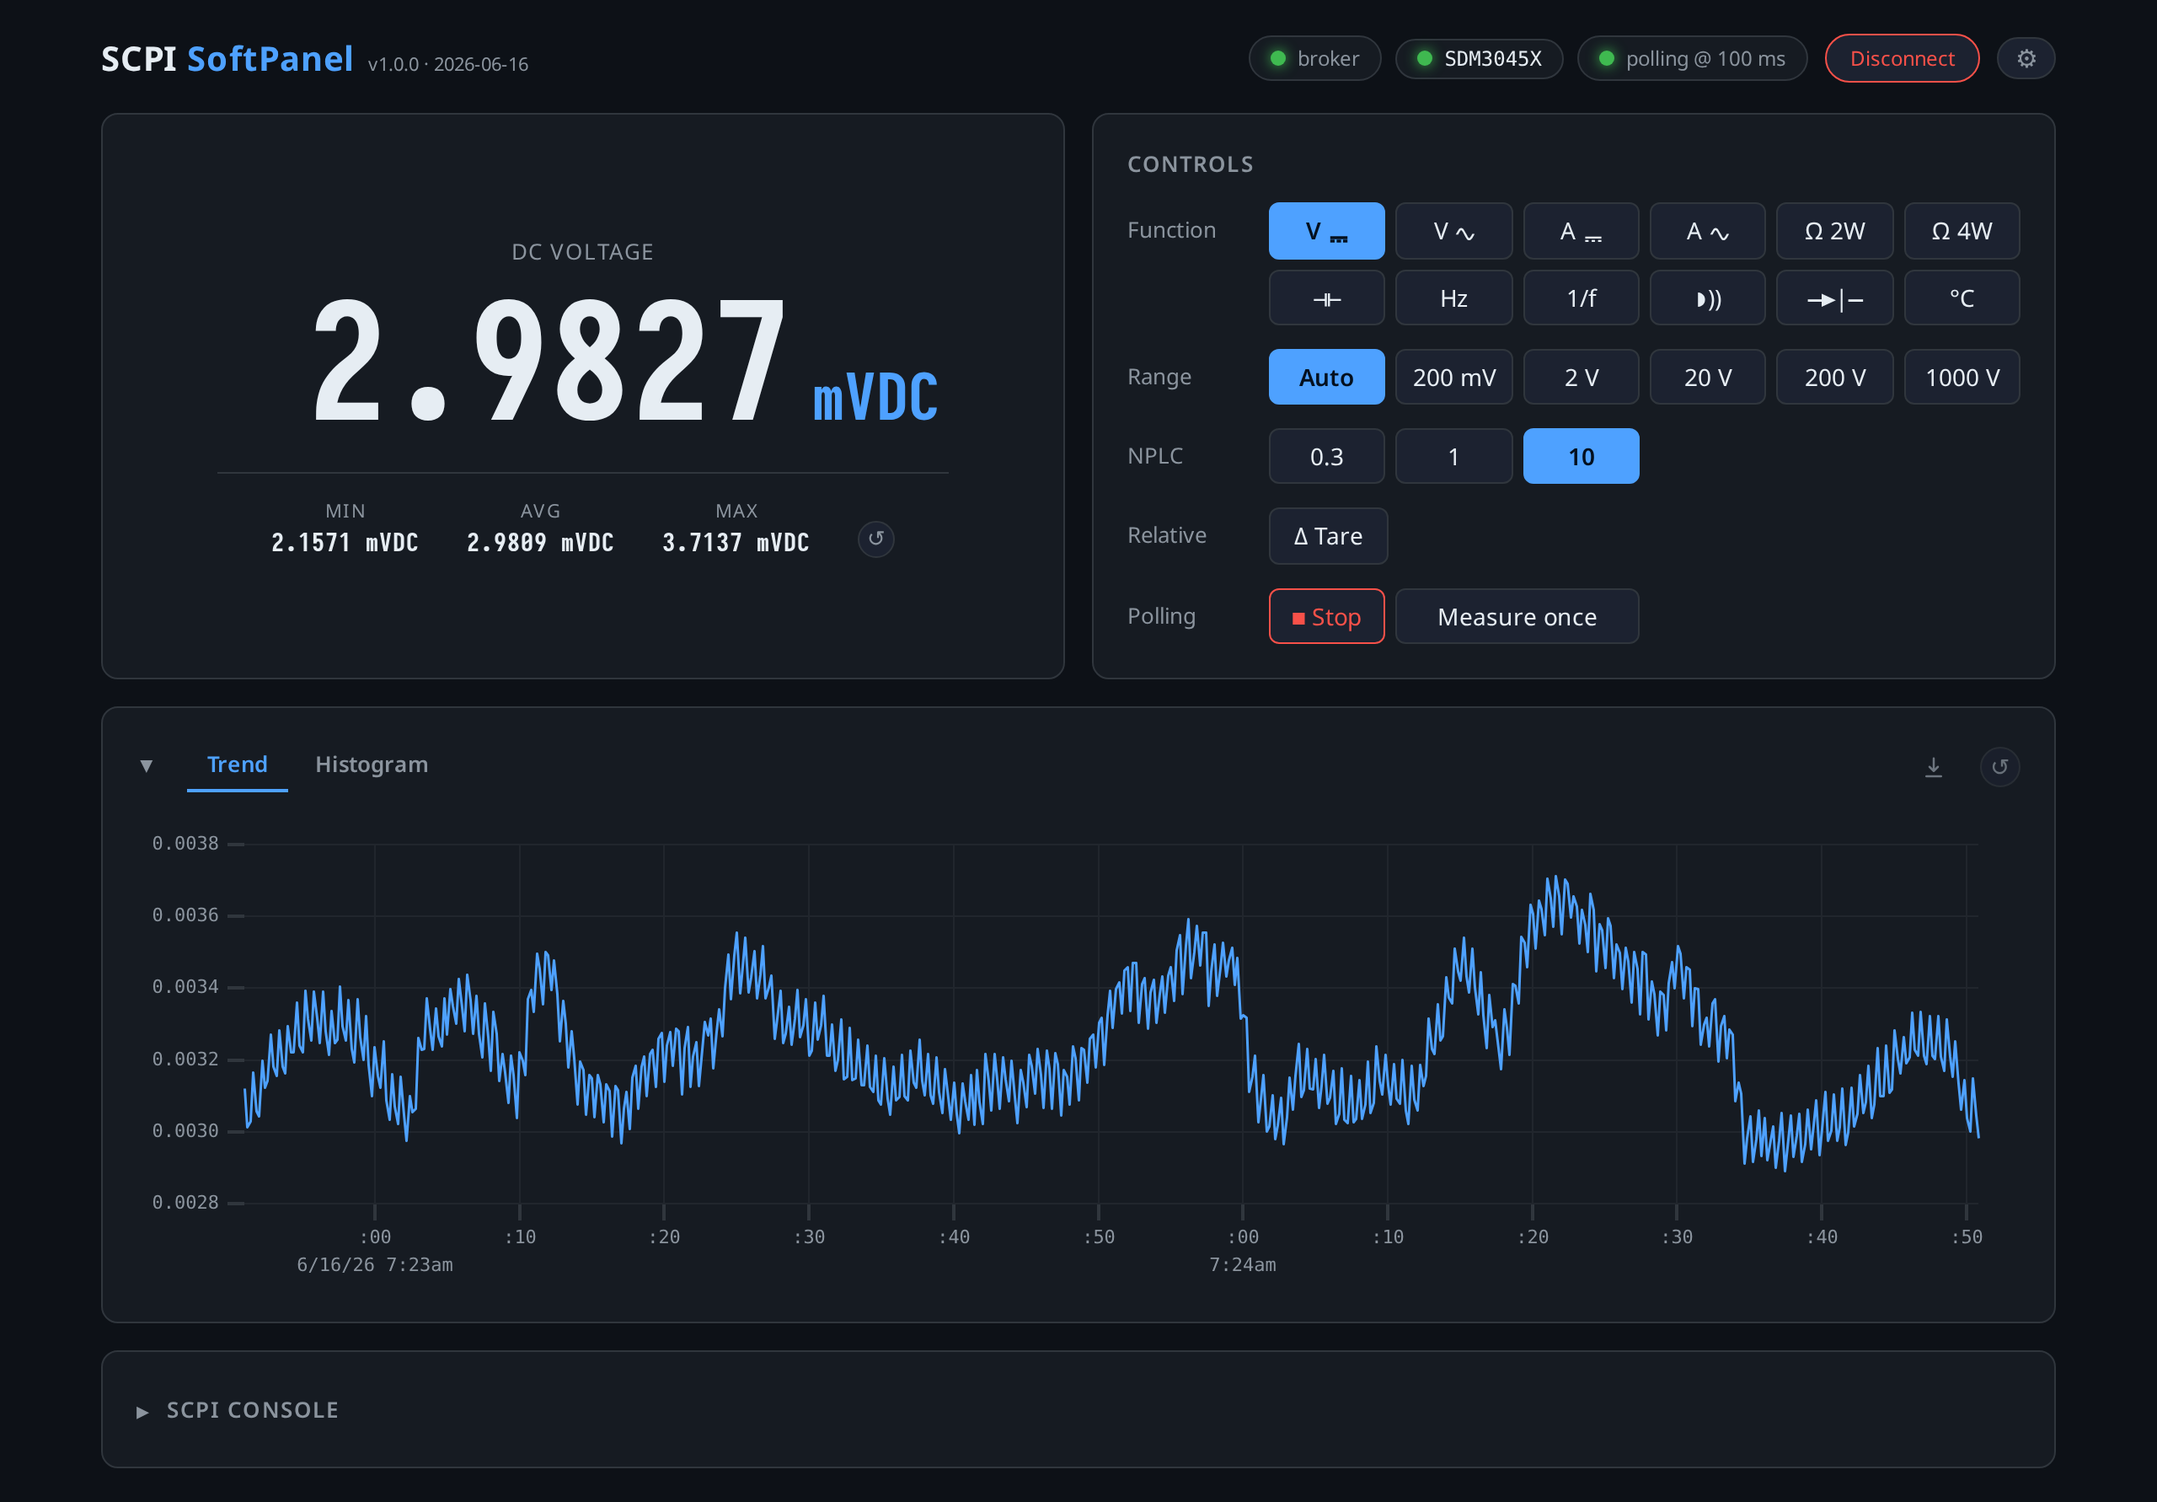
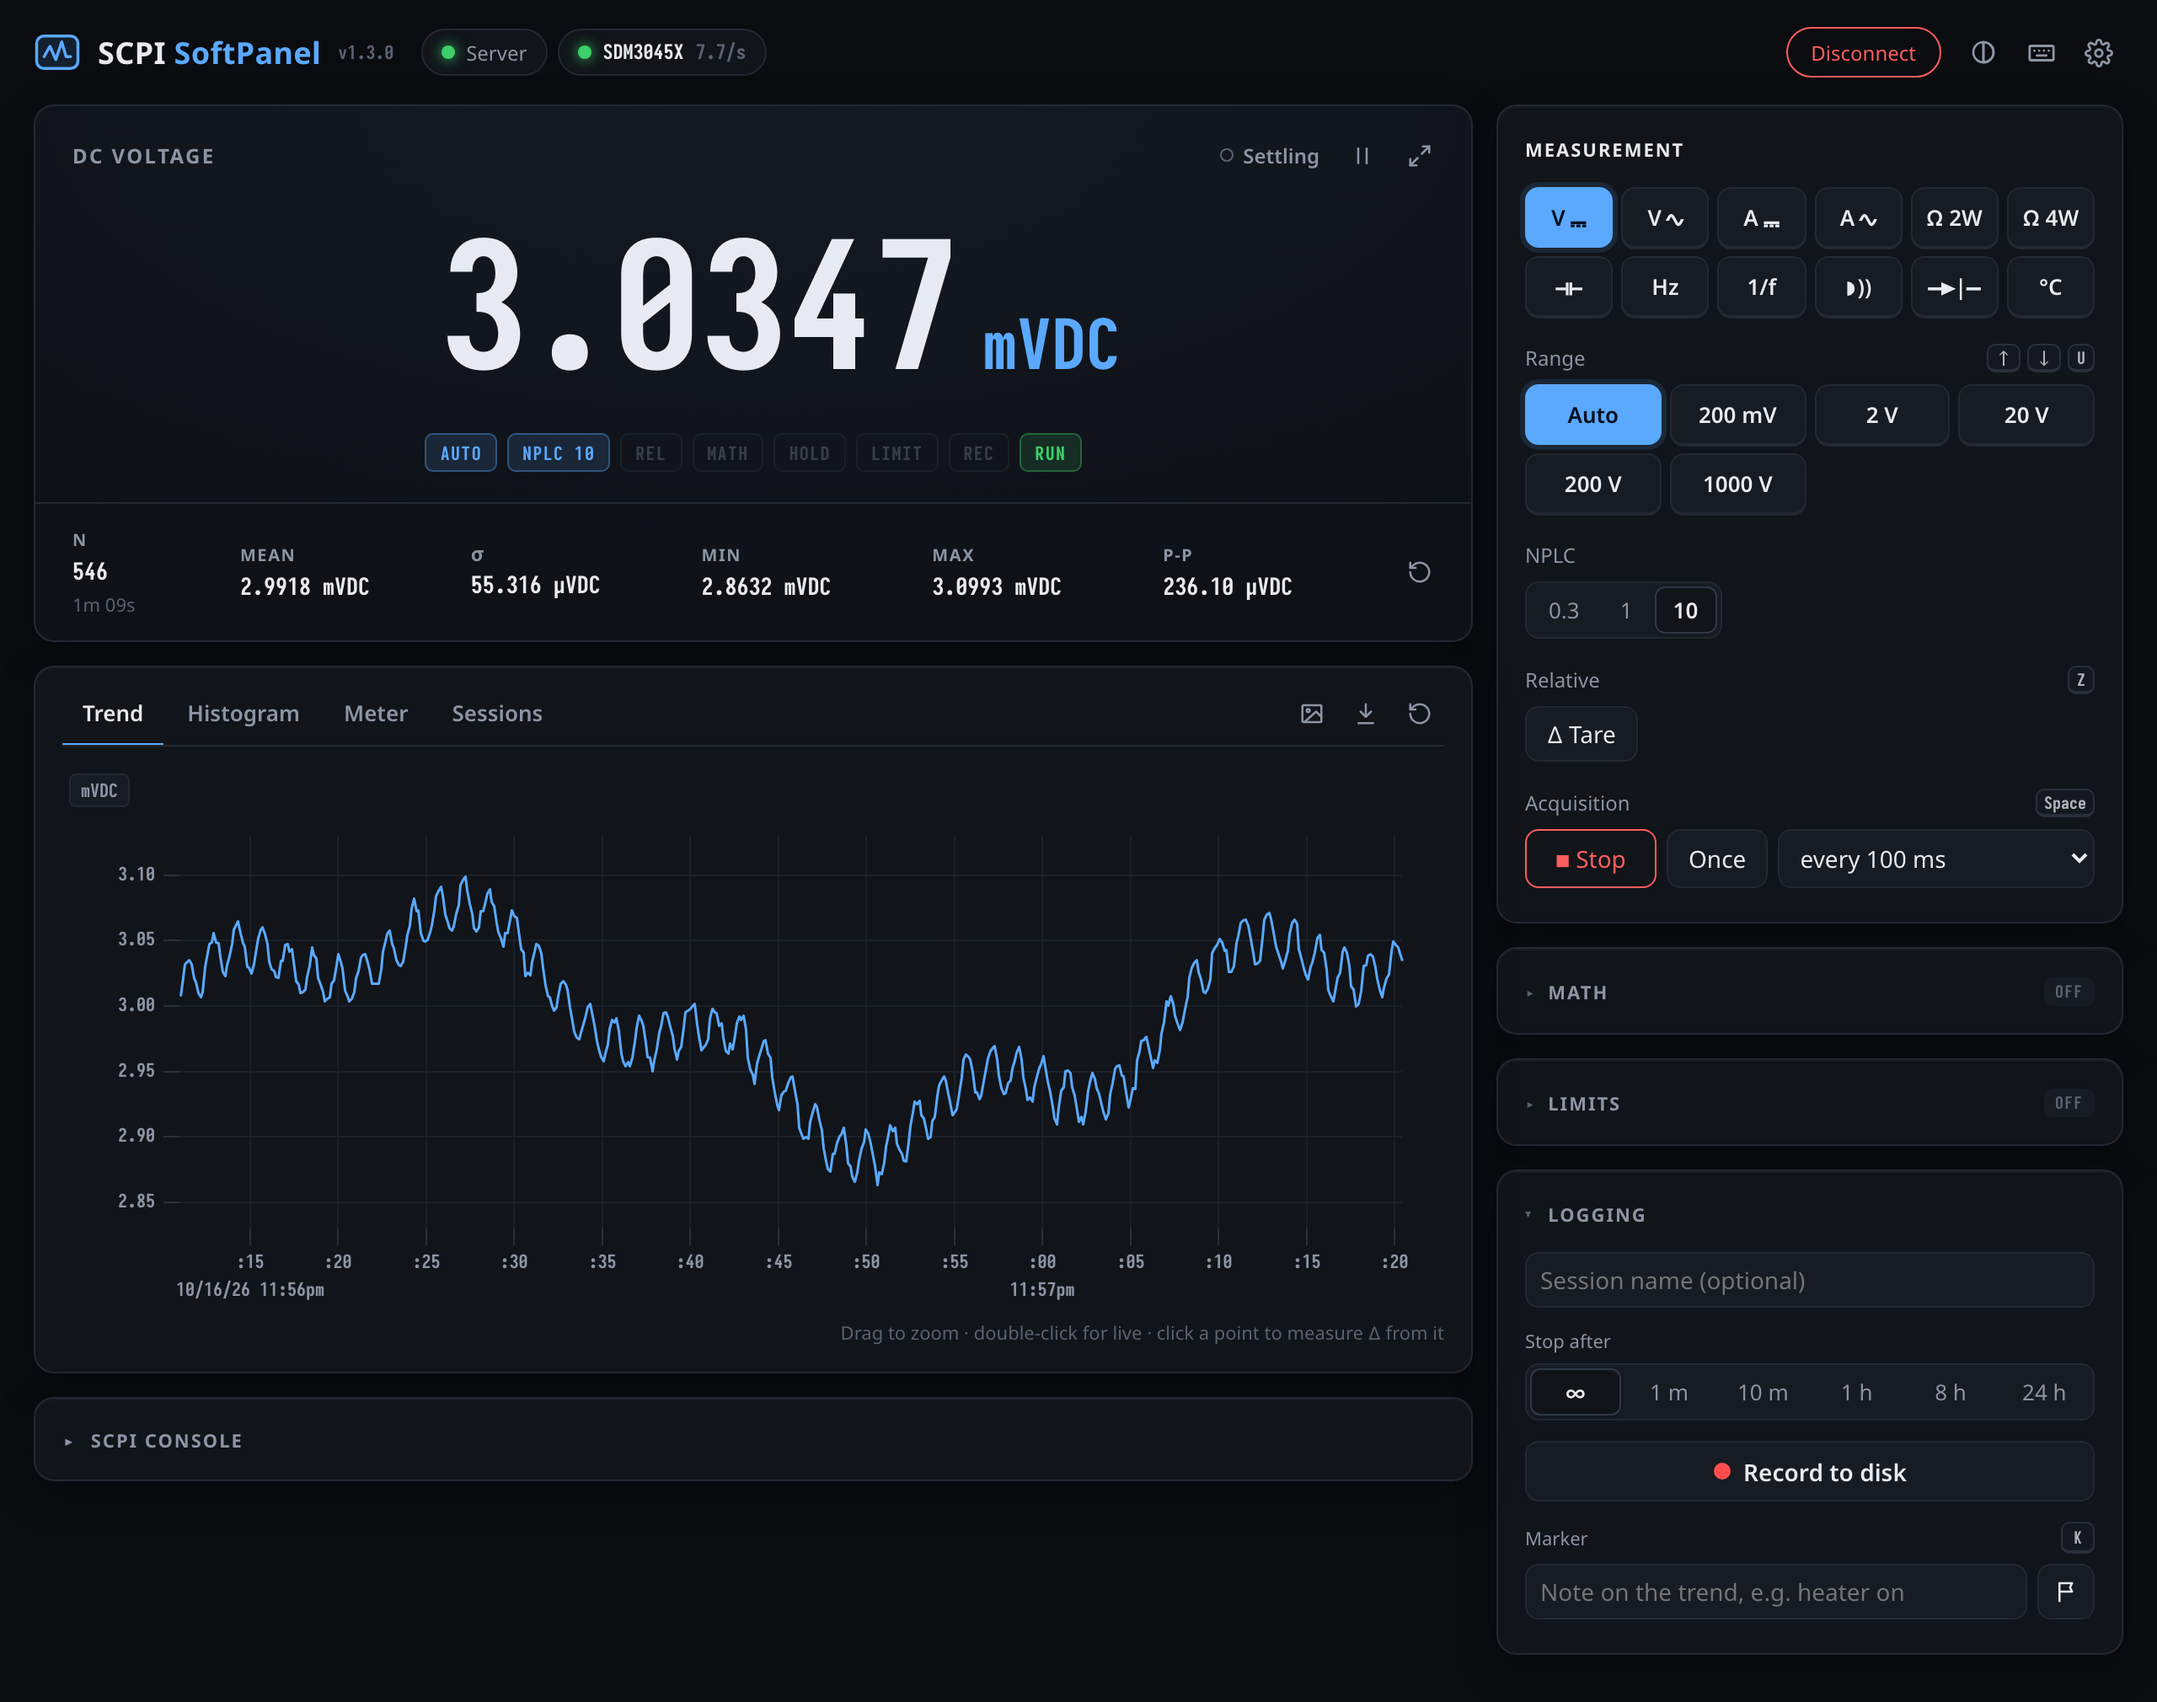
README: refresh the screenshot for v1.3.0 and show the analog meter
Captured at 1280 px @2x from the app running against scripts/sim-meter.py.

diff --git a/README.md b/README.md
@@ -10,10 +10,18 @@ It ships two ways from one codebase:
   instrument.
 - **Headless server** for an always-on LAN host — serves the same UI to any browser.
 
-![SCPI SoftPanel reading a live SDM3045X](docs/screenshot.png)
+![SCPI SoftPanel: live DC-voltage readout with annunciators, statistics, trend chart and control rail](docs/screenshot.png)
 
 Live readout, a front-panel-style function keypad, range / NPLC / continuity-threshold
-controls, tabbed trend & histogram charts, a raw-SCPI console, and a continuity tone.
+controls, tabbed trend, histogram and analog-meter views, recording to disk, a raw-SCPI
+console, and a continuity tone.
+
+![The Meter tab: a modeled analog panel meter with a center-zero mVDC scale](docs/meter.png)
+
+The **Meter** tab draws a classic analog panel meter. The needle moves like a real
+taut-band movement, with a little overshoot, and bounces off the pegs on overload. The
+scale follows the instrument's range, and a red band above it marks the min/max of the
+last 15 s. With Δ Tare engaged it works as a null meter.
 
 ## Features
 
